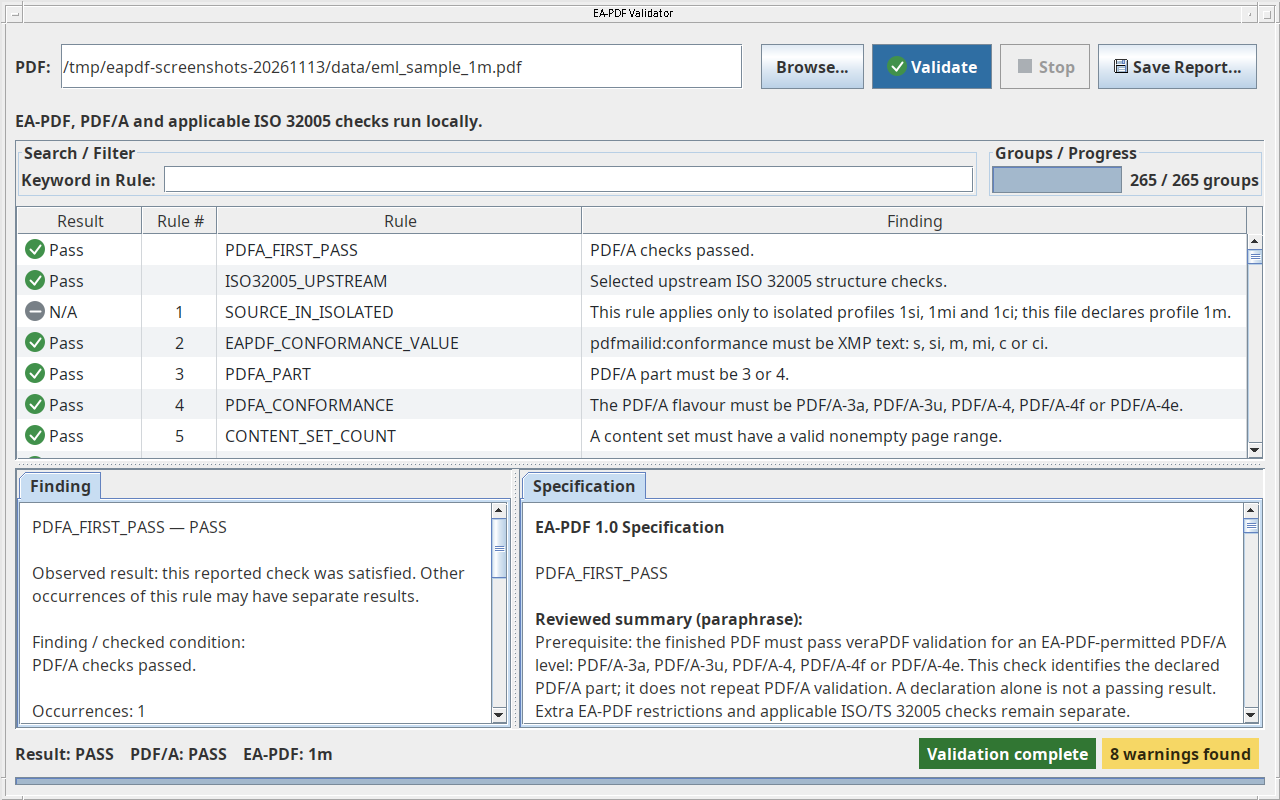
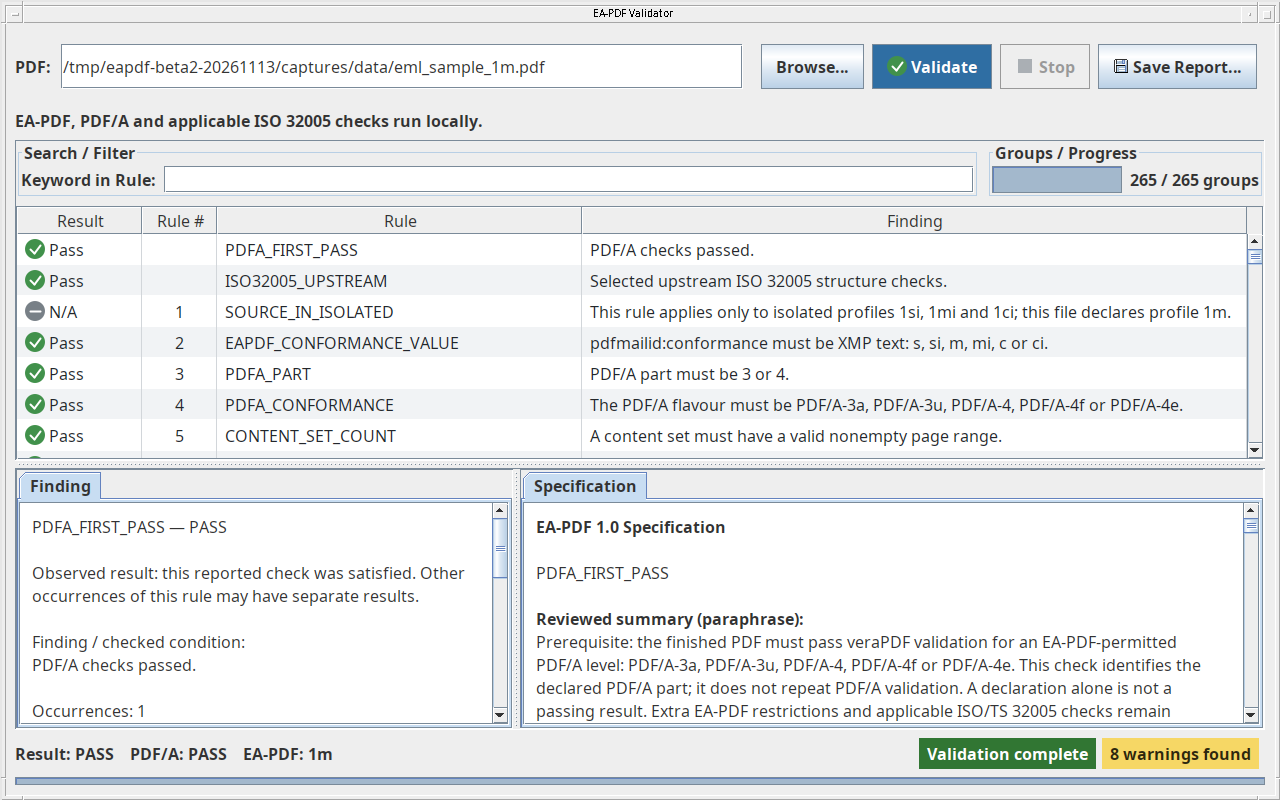
Publish privacy source with the site and refresh beta.2 documentation captures

Changed region(s): [[0.375, 0.5938, 0.9688, 0.9062], [0.125, 0.0625, 0.4375, 0.0938]]

diff --git a/scripts/build_documentation.py b/scripts/build_documentation.py
@@ -18,7 +18,7 @@ from mkdocs.config import load_config
 ROOT = Path(__file__).resolve().parents[1]
 REPOSITORY = 'https://github.com/thinkbox-digital/eapdf'
 SOURCES = {
-    'docs/PRIVACY.md': 'privacy.md',
+    'docs/site/privacy.md': 'privacy.md',
     'docs/PROJECT_STATUS.md': 'developers/project-status.md',
     'docs/ARCHITECTURE.md': 'developers/architecture.md',
     'docs/PDFJS_LARGE_ARCHIVE_COMPARISON.md': 'developers/pdfjs-comparison.md',

diff --git a/docs/releases/2.2.0-beta.2-validation.md b/docs/releases/2.2.0-beta.2-validation.md
@@ -8,3 +8,10 @@ The four supplied PNG sizes and SVG are copied unchanged. Both reader distributi
 include the privacy policy. Screenshots use actual applications, fictional mail,
 and 1280×800 application windows/viewports. Validation results are real, including
 any warnings. No screenshot pixels or result text are edited.
+
+The 48 Python regressions pass. Both full packages pass existing package checks;
+Lite passes its five export checks. The three Java JARs match independent repeat
+builds. All four screenshots are exactly 1280×800 and use the matching beta.2
+applications. The sample passes actual EA-PDF and PDF/A validation, with its
+warnings shown. Full/Lite captures run offline without page errors and verify
+the supplied favicon. The privacy page builds at `privacy/index.html`.

diff --git a/docs/README.md b/docs/README.md
@@ -12,7 +12,7 @@ Start with the [user guide](manual/user-manual.html) or [PDF manual](EA-PDF_User
 | Validation results | [Coverage](VALIDATOR_COVERAGE.md), [Java validator](../validator-desktop/README.md) |
 | Settings | [Configuration](../config/README.md) |
 | Signing and search indexes | [Signatures](DIGITAL_SIGNATURES.md), [indexes](EMBEDDED_SEARCH_INDEX.md) |
-| Privacy | [Privacy policy](PRIVACY.md) |
+| Privacy | [Privacy policy](site/privacy.md) |
 | Security and licensing | [Security](security/HARDENING.md), [licenses](THIRD_PARTY_LICENSES.md) |
 | Developer libraries | [Packages](PACKAGES.md), [renderer patches](RENDERER.md) |
 | Changes and checks | [Release notes](releases/2.2.0-beta.2.md), [release checks](releases/2.2.0-beta.2-validation.md), [history](CHANGELOG.md) |

diff --git a/README.md b/README.md
@@ -83,7 +83,7 @@ Reader builds need Node.js; see the [reader guide](browser-viewer/README.md#buil
 [Tests](https://github.com/thinkbox-digital/eapdf/actions/workflows/quality.yml) ·
 [Contribute](CONTRIBUTING.md) · [Project status](docs/PROJECT_STATUS.md) ·
 [Code layout](docs/ARCHITECTURE.md) · [Architecture diagram (PDF)](docs/EA-PDF_Software_Architecture.pdf) · [Report a security problem](SECURITY.md) ·
-[Library packages](docs/PACKAGES.md) · [Privacy](docs/PRIVACY.md)
+[Library packages](docs/PACKAGES.md) · [Privacy](docs/site/privacy.md)
 
 ## Regenerate local outputs
 

diff --git a/browser-viewer/README.md b/browser-viewer/README.md
@@ -5,7 +5,7 @@ Read local PDFs, browse email folders and save attachments. Files stay on your
 computer. No Java, server or internet connection is needed by the extensions.
 
 [Download](https://github.com/thinkbox-digital/eapdf/releases/tag/v2.2.0-beta.2) ·
-[User guide](../docs/manual/user-manual.html#viewer) · [Privacy](../docs/PRIVACY.md)
+[User guide](../docs/manual/user-manual.html#viewer) · [Privacy](../docs/site/privacy.md)
 
 ## Choose a reader
 

diff --git a/docs/PROJECT_STATUS.md b/docs/PROJECT_STATUS.md
@@ -31,7 +31,7 @@ or finding-aid files. The reader's CSV export remains available.
 
 ## Latest update
 
-Both readers use the supplied PNG and SVG artwork. A short [privacy policy](PRIVACY.md)
+Both readers use the supplied PNG and SVG artwork. A short [privacy policy](site/privacy.md)
 explains local files, optional connections and saved data. The release includes
 1280×800 screenshots of the Creator, Validator and both readers with fictional data.
 
